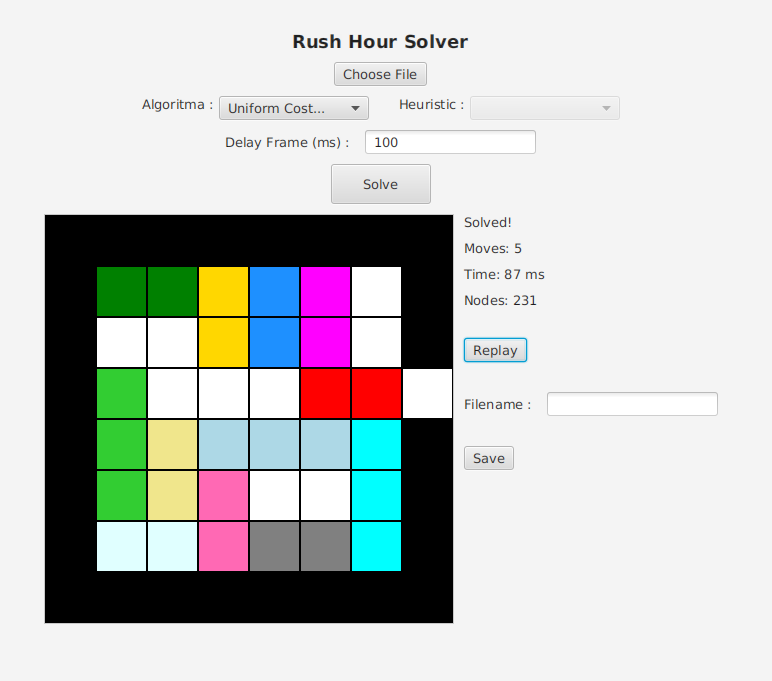
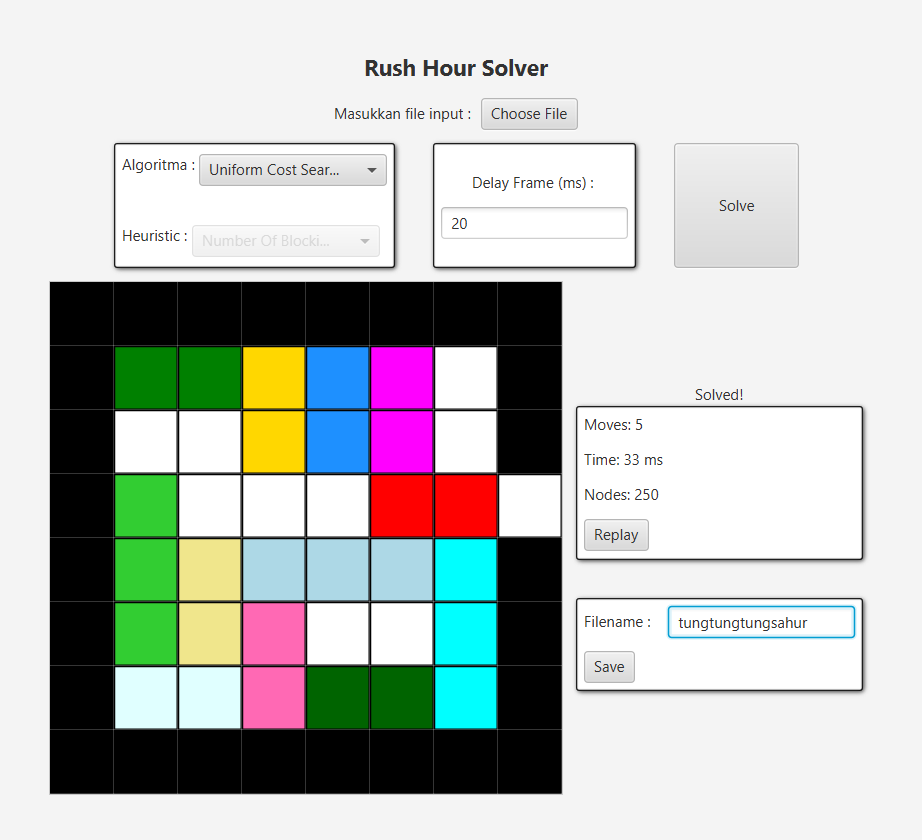
refactor: add style.css and better looking gui

Changed region(s): [[0.0311, 0.0308, 0.9637, 0.9559], [0.7772, 0.1542, 0.8083, 0.185]]

diff --git a/src/main/resources/style.css b/src/main/resources/style.css
@@ -1,0 +1,12 @@
+.box{
+  -fx-border-color: black;
+  -fx-effect: dropshadow(gaussian, gray, 5, 0.3, 1, 1);
+  -fx-border-width: 1px;
+  -fx-border-radius: 2px;
+  -fx-background-radius: 5;
+  -fx-background-color: white;
+  -fx-padding: 5;
+  -fx-width: 100;
+  -fx-height: 100;
+}
+

diff --git a/src/main/java/rushhours/control/MainController.java b/src/main/java/rushhours/control/MainController.java
@@ -1,10 +1,9 @@
 package rushhours.control;
 
 import java.io.File;
-import java.util.Stack;
 import java.util.List;
+import java.util.Stack;
 
-import javafx.util.Duration;
 import javafx.animation.PauseTransition;
 import javafx.application.Platform;
 import javafx.collections.FXCollections;
@@ -16,19 +15,24 @@ import javafx.scene.control.ScrollPane;
 import javafx.scene.control.TextField;
 import javafx.scene.layout.GridPane;
 import javafx.scene.layout.StackPane;
+import javafx.scene.layout.VBox;
+
 import javafx.scene.paint.Color;
 import javafx.scene.shape.Rectangle;
 import javafx.stage.FileChooser;
 import javafx.stage.Stage;
-import rushhours.algorithm.*;
+import javafx.util.Duration;
+import rushhours.algorithm.AStar;
+import rushhours.algorithm.BestFirstSearch;
+import rushhours.algorithm.UCS;
 import rushhours.io.LoadFile;
 import rushhours.io.WriteFile;
+import rushhours.model.Colors.ColorMap;
 import rushhours.model.State;
-import rushhours.model.Colors.*;
 
 public class MainController {
     @FXML
-    private Label resultLabel, moveLabel, timeLabel, nodeLabel;
+    private Label resultLabel, moveLabel, timeLabel, nodeLabel, filenameLabel;
     @FXML
     private Button solveButton, saveButton, replayButton;
     @FXML
@@ -41,6 +45,8 @@ public class MainController {
     private ScrollPane scrollPane;
     @FXML
     private TextField saveFileName, delayFrame;
+    @FXML 
+    private VBox resultBox;
     
     private State state;
     private ColorMap colorMap;
@@ -67,9 +73,23 @@ public class MainController {
         replayButton.setVisible(false);
         replayButton.setDisable(true);
         heuristicBox.setDisable(true);
+        filenameLabel.setVisible(false);
+        saveFileName.setVisible(false);
         
         checkAlgo();
     }
+
+    @FXML
+    private void checkAlgo() {
+        algorithmBox.valueProperty().addListener((obs, oldVal, newVal) -> {
+        if ("Uniform Cost Search".equals(newVal)) {
+            heuristicBox.setDisable(true);
+        } else {
+            heuristicBox.setDisable(false);
+        }
+        });
+    }
+    
 
     @FXML
     private void handleChooseFile() {
@@ -88,25 +108,15 @@ public class MainController {
                 colorMap.mapColorToPieces(state.getPieces());
                 scrollPane.setVisible(true);
                 drawBoard(state.getBoard().getGrid()); 
+                solveButton.setDisable(false);
+                resultLabel.setText("File berhasil diload!");
+                
             } catch (Exception e) {
                 e.printStackTrace(); 
                 resultLabel.setText("Failed to read file: " + e.getClass().getSimpleName() + " - " + e.getMessage());
             }
         }
     }
-
-    @FXML
-    private void checkAlgo() {
-        algorithmBox.valueProperty().addListener((obs, oldVal, newVal) -> {
-        if ("Uniform Cost Search".equals(newVal)) {
-            heuristicBox.setDisable(true);
-        } else {
-            heuristicBox.setDisable(false);
-        }
-        });
-    }
-    
-
 
     private void drawBoard(char[][] grid) {
         boardGrid.getChildren().clear();
@@ -148,17 +158,36 @@ public class MainController {
             case "\u001B[44;37m" -> Color.DODGERBLUE;
             case "\u001B[45;30m" -> Color.MAGENTA;
             case "\u001B[46;30m" -> Color.CYAN;
-            case "\u001B[47;30m" -> Color.LIGHTGRAY;
+    
             case "\u001B[102;30m" -> Color.LIMEGREEN;
             case "\u001B[103;30m" -> Color.KHAKI;
             case "\u001B[104;30m" -> Color.LIGHTBLUE;
             case "\u001B[105;30m" -> Color.HOTPINK;
             case "\u001B[106;30m" -> Color.LIGHTCYAN;
-            case "\u001B[107;30m" -> Color.WHITE;
-            case "\u001B[101;30m" -> Color.INDIANRED;
-            default -> Color.GRAY; 
+    
+            case "\u001B[1;42;30m" -> Color.DARKGREEN;
+            case "\u001B[1;43;30m" -> Color.ORANGE;
+            case "\u001B[1;44;37m" -> Color.ROYALBLUE;
+            case "\u001B[1;45;30m" -> Color.DARKMAGENTA;
+            case "\u001B[1;46;30m" -> Color.DARKCYAN;
+    
+            case "\u001B[1;102;30m" -> Color.GREENYELLOW;
+            case "\u001B[1;103;30m" -> Color.YELLOW;
+            case "\u001B[1;104;37m" -> Color.CORNFLOWERBLUE;
+            case "\u001B[1;105;30m" -> Color.DEEPPINK;
+            case "\u001B[1;106;30m" -> Color.AQUA;
+    
+            case "\u001B[100;30m" -> Color.DIMGRAY;
+            case "\u001B[1;100;30m" -> Color.DARKGRAY;
+            case "\u001B[1;100;37m" -> Color.SILVER;
+            case "\u001B[1;100;97m" -> Color.LIGHTGRAY;
+    
+            default -> Color.GRAY;
         };
     }
+    
+
+        
     
 
     @FXML
@@ -234,6 +263,11 @@ public class MainController {
                             saveButton.setVisible(true);
                             saveButton.setDisable(false);
                             solveButton.setDisable(false);
+                            saveFileName.setVisible(true);
+                            filenameLabel.setVisible(true);
+                            replayButton.setVisible(true);
+                            replayButton.setDisable(false);
+                            resultBox.setVisible(true);
                         }
                     });
 
@@ -246,6 +280,10 @@ public class MainController {
                     saveButton.setDisable(true);
                     saveButton.setVisible(false);
                     solveButton.setDisable(false);
+                    saveFileName.setVisible(false);
+                    filenameLabel.setVisible(false);
+                    replayButton.setVisible(false);
+                    replayButton.setDisable(true);
                 }
             });
             } catch (Exception e) {
@@ -254,8 +292,6 @@ public class MainController {
                 solveButton.setDisable(true);
             }
         }).start();
-        replayButton.setVisible(true);
-        replayButton.setDisable(false);
     }
 
     @FXML
